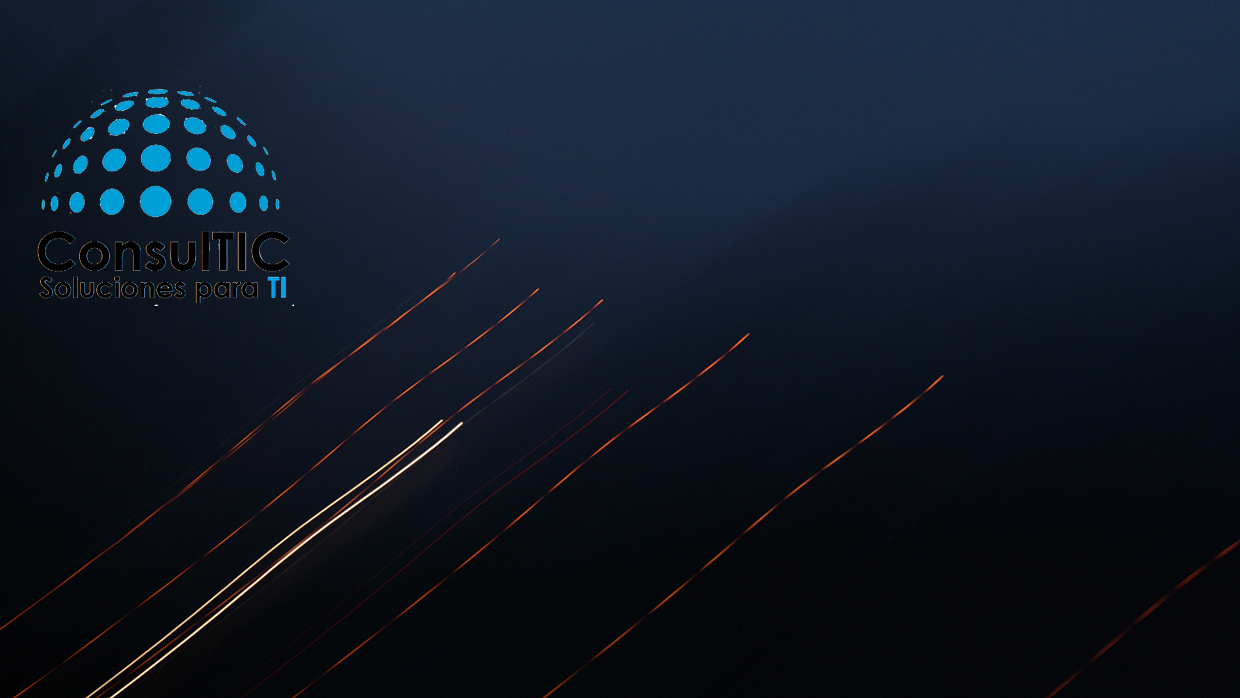
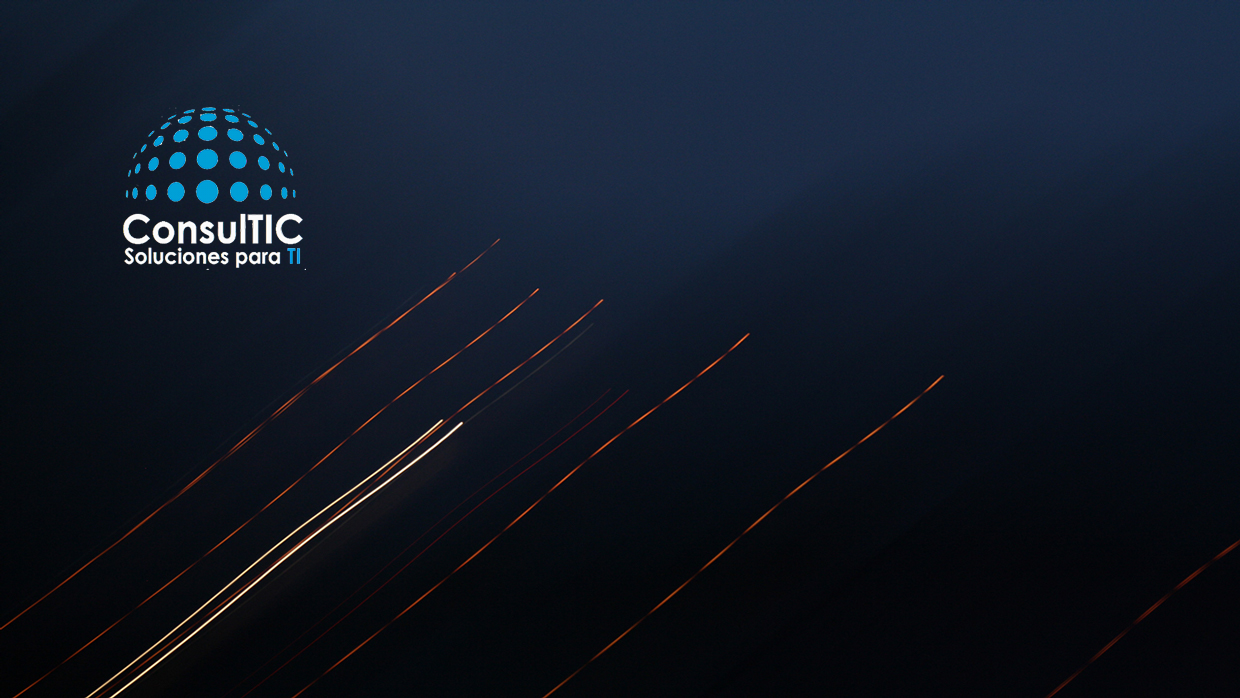
Cambio ligero
Otro cambio ligero a la imagen que contiene logo, le cambié el color a
las letras por un color blanco.

Changed region(s): [[0.0306, 0.1203, 0.2452, 0.4513]]

diff --git a/quienes.html b/quienes.html
@@ -93,7 +93,7 @@
 
 								<p class="texto1">Visión </p>
 									<p class="texto2">
-									Ser  reconocidos  por  nuestros  clientes  para  el  2019  como  la  empresa consultora  de  Tecnologías  de  Información  de  mayor  referencia,  más  valorada  y respetada en el país.
+									Ser  reconocidos  por  nuestros  clientes  para  el  2019  como  la  empresa consultora  de  Tecnologías  de  Información  de  mayor  referencia,  más  valorada  y respetada en el estado de Durango.
 								</header>
 								</section>
 
